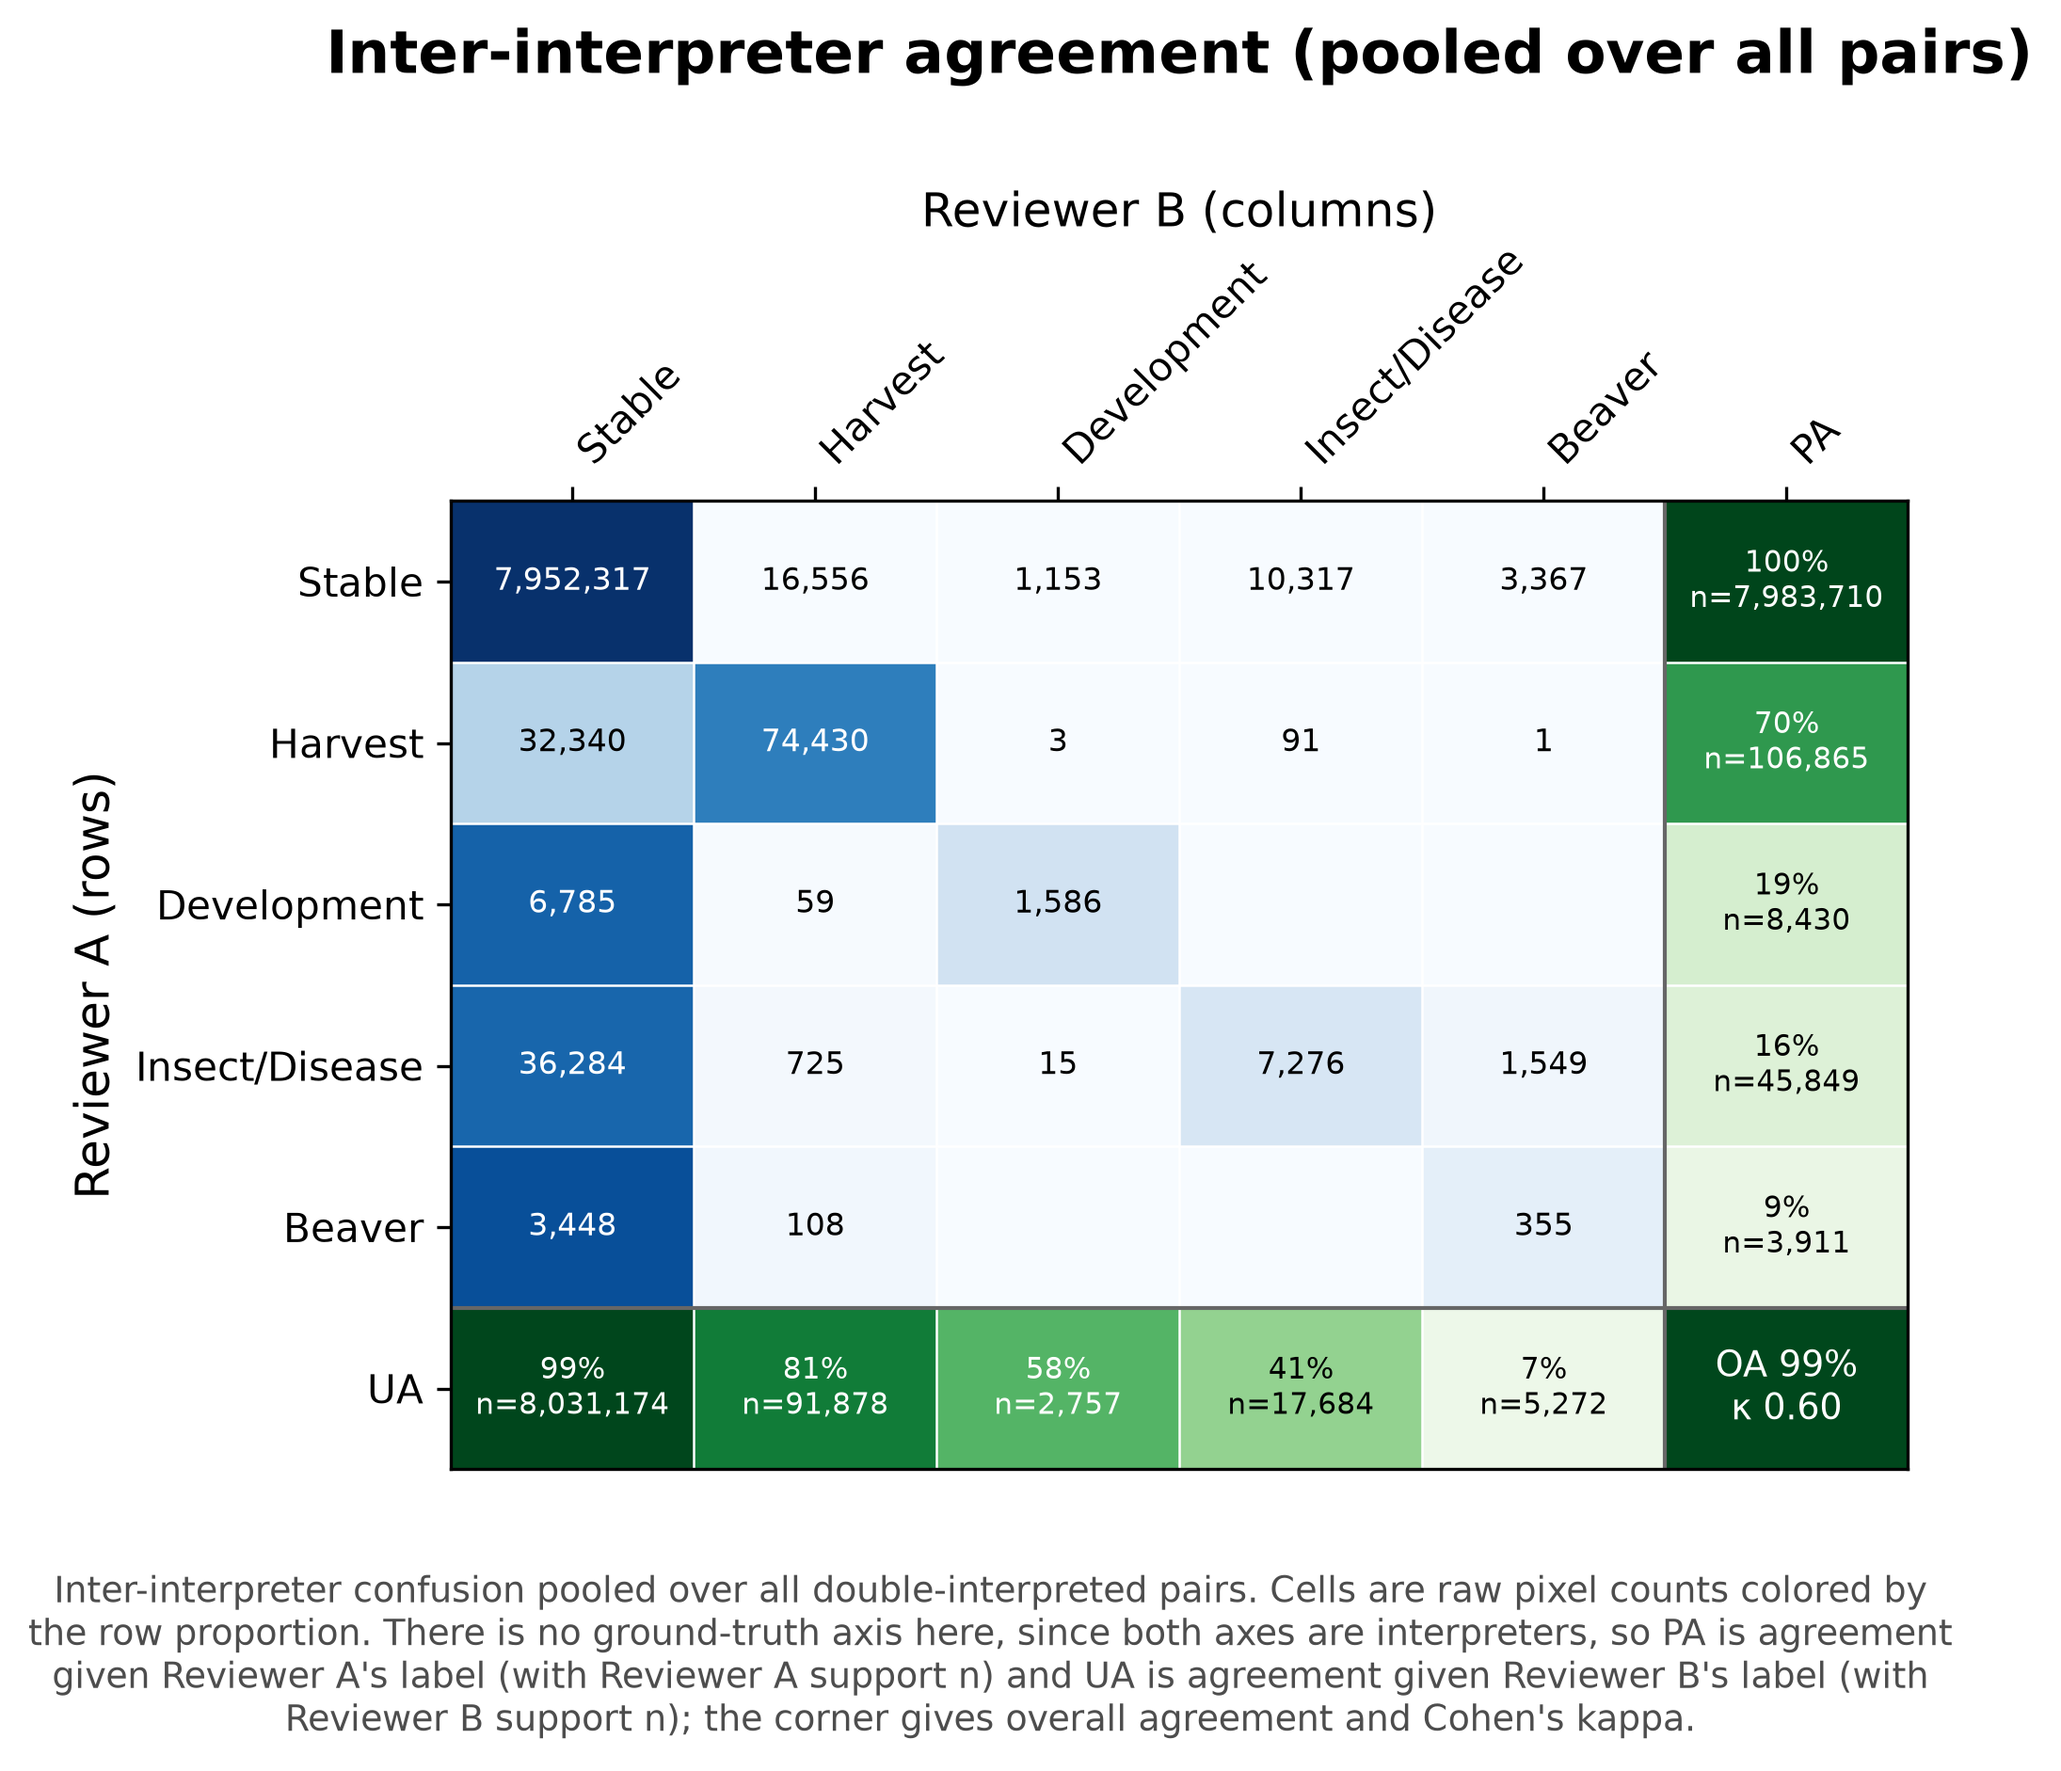
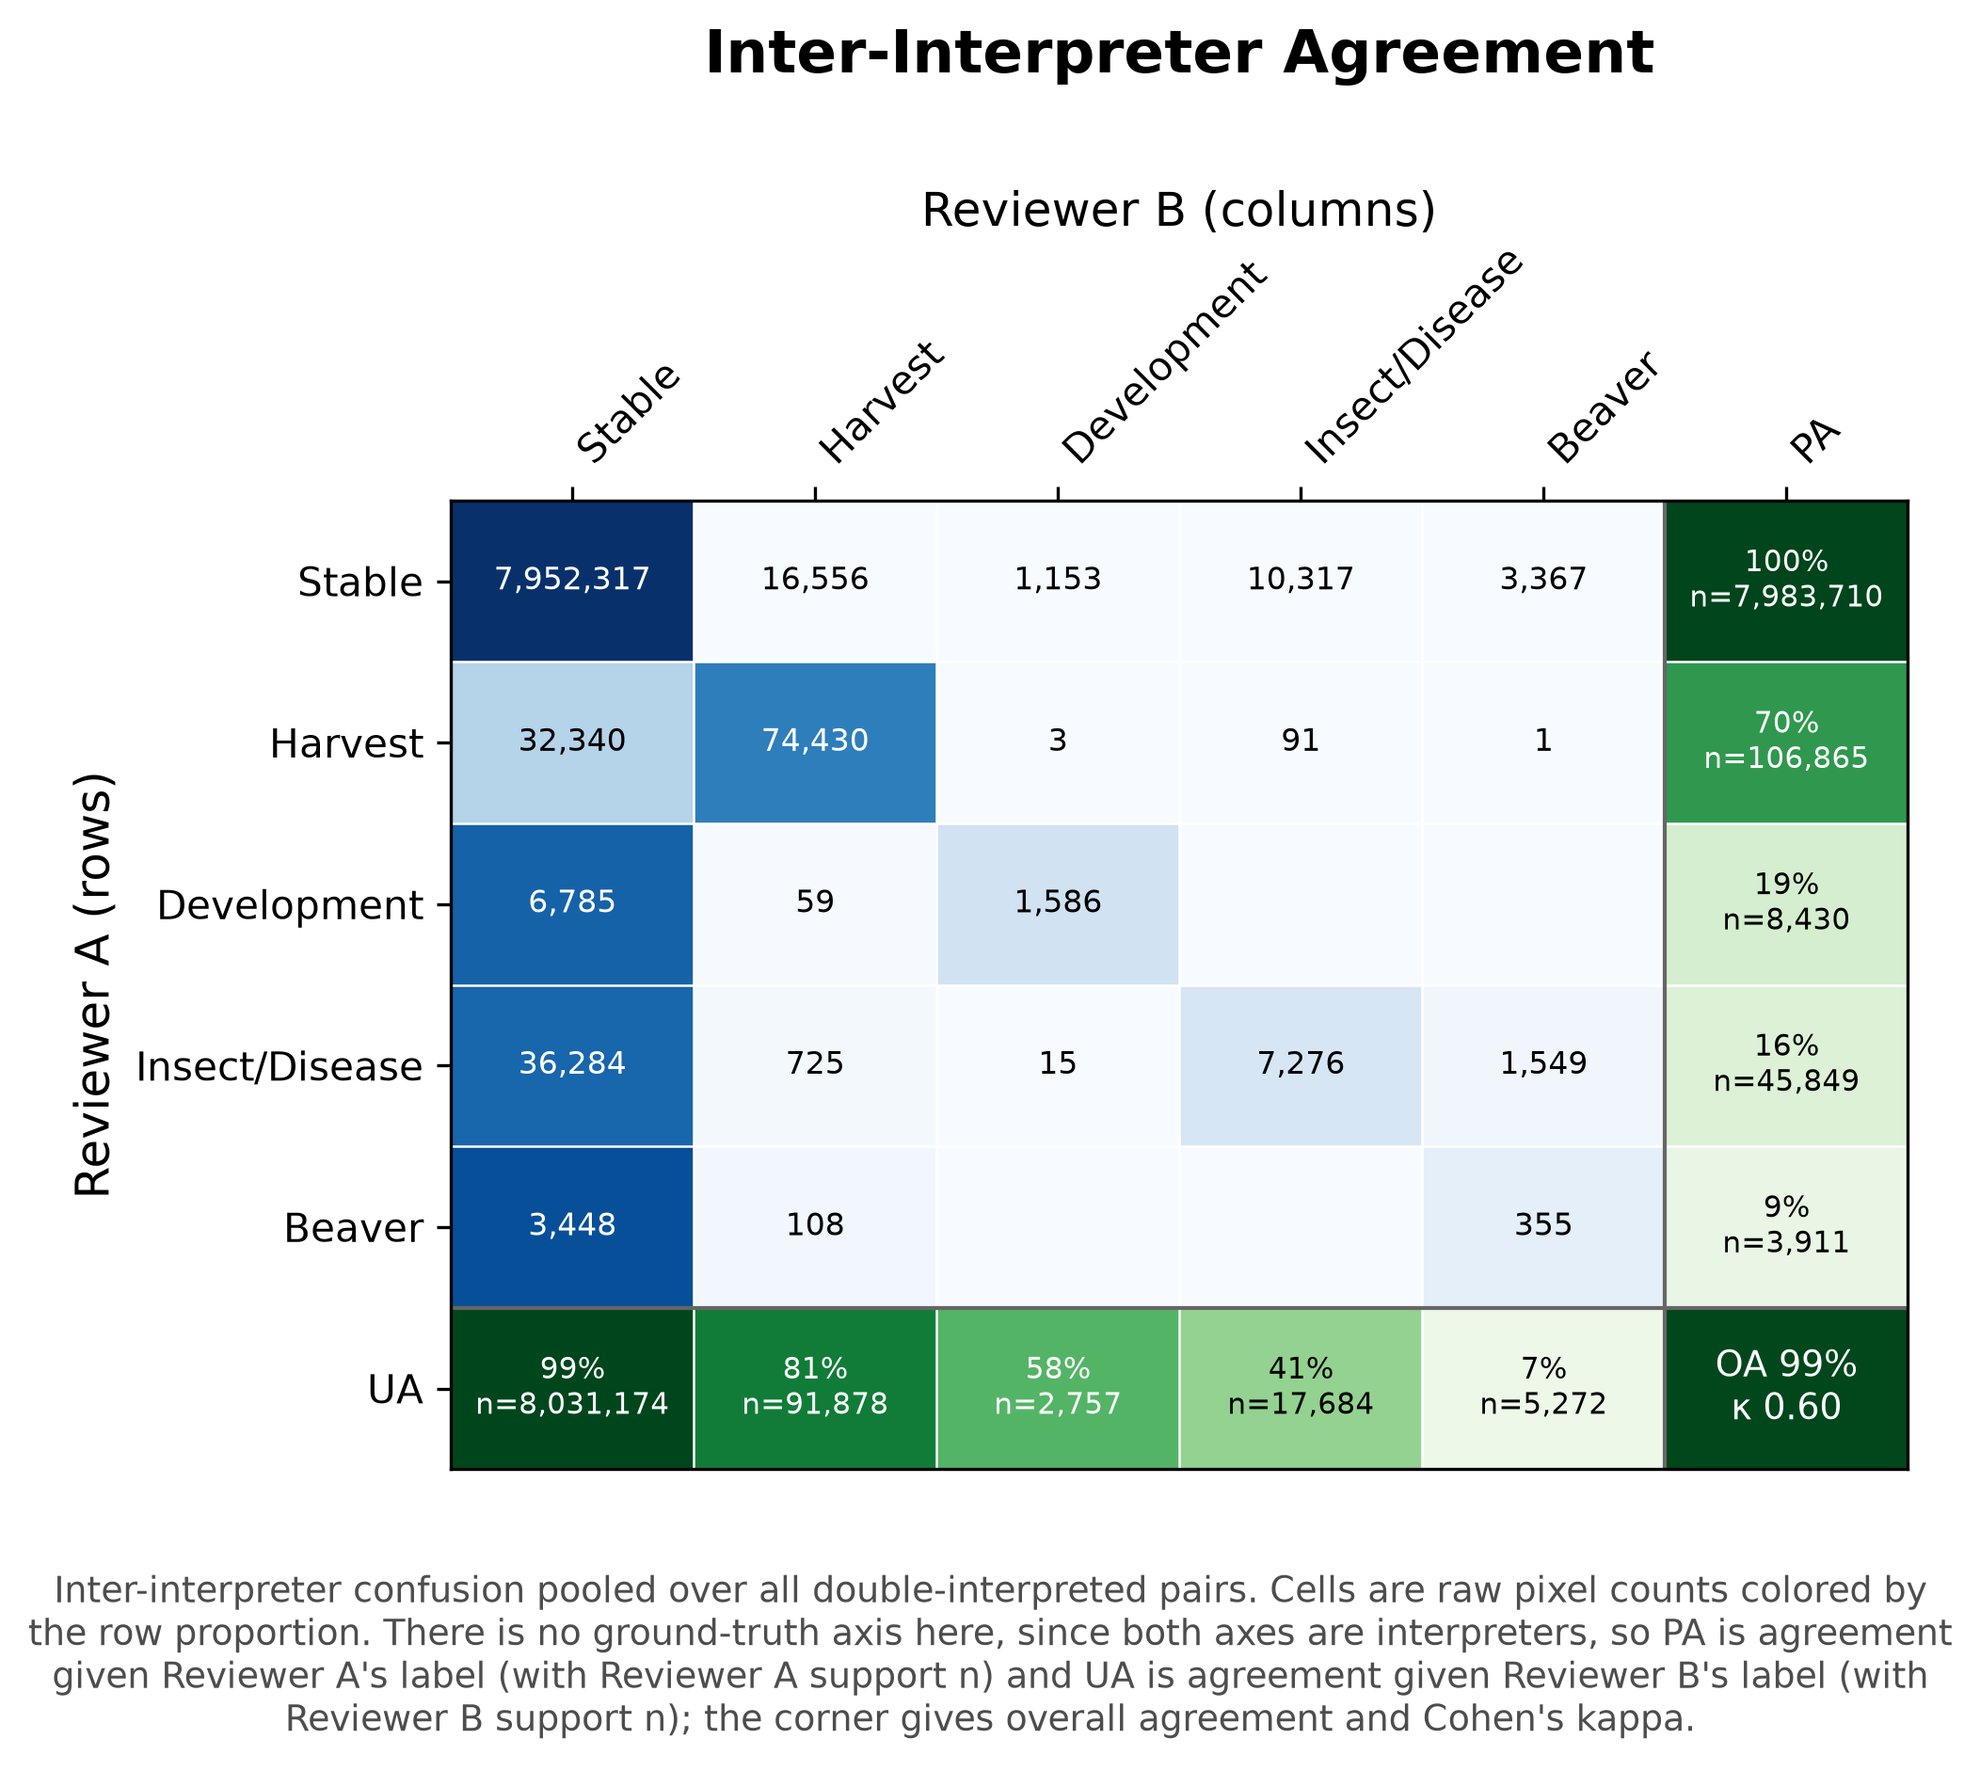
5-class interpreter confusion: title to Title Case "Inter-Interpreter Agreement"
Add an optional title arg to plot_confusion (default unchanged for the
10-class caller) and pass the title-case title from the 5-class builder.

diff --git a/scripts/compare_interpreters.py b/scripts/compare_interpreters.py
@@ -162,7 +162,7 @@ def plot_pair(gid, revA, revB, arrA, arrB, codes, names, colors, m, out_path):
     plt.close(fig)
 
 
-def plot_confusion(cm, codes, names, out_path):
+def plot_confusion(cm, codes, names, out_path, title="Inter-interpreter agreement (pooled over all pairs)"):
     """Pooled inter-interpreter confusion in the shared PA/UA style: cells are raw counts, color
     is the row proportion, with a PA column (row-conditional agreement) and reference support on
     the right, a UA row (column-conditional agreement) and predicted support on the bottom, and OA
@@ -231,8 +231,7 @@ def plot_confusion(cm, codes, names, out_path):
     ax.set_xticks(np.arange(-0.5, n + 1, 1), minor=True)
     ax.set_yticks(np.arange(-0.5, n + 1, 1), minor=True)
     ax.grid(which="minor", color="white", lw=0.6); ax.tick_params(which="minor", length=0)
-    ax.set_title("Inter-interpreter agreement (pooled over all pairs)", fontsize=15,
-                 fontweight="bold", pad=30)
+    ax.set_title(title, fontsize=15, fontweight="bold", pad=30)
 
     import textwrap
     cap = ("Inter-interpreter confusion pooled over all double-interpreted pairs. Cells are raw pixel "

diff --git a/scripts/build_interpreter_confusion_5class.py b/scripts/build_interpreter_confusion_5class.py
@@ -69,7 +69,7 @@ def main():
     spec = importlib.util.spec_from_file_location("CI", f"{ROOT}/scripts/compare_interpreters.py")
     CI = importlib.util.module_from_spec(spec)
     spec.loader.exec_module(CI)
-    CI.plot_confusion(cm5, list(NAMES5), NAMES5, OUT_PNG)
+    CI.plot_confusion(cm5, list(NAMES5), NAMES5, OUT_PNG, title="Inter-Interpreter Agreement")
     print(f"wrote {OUT_PNG} and {OUT_CSV}")
 
 
